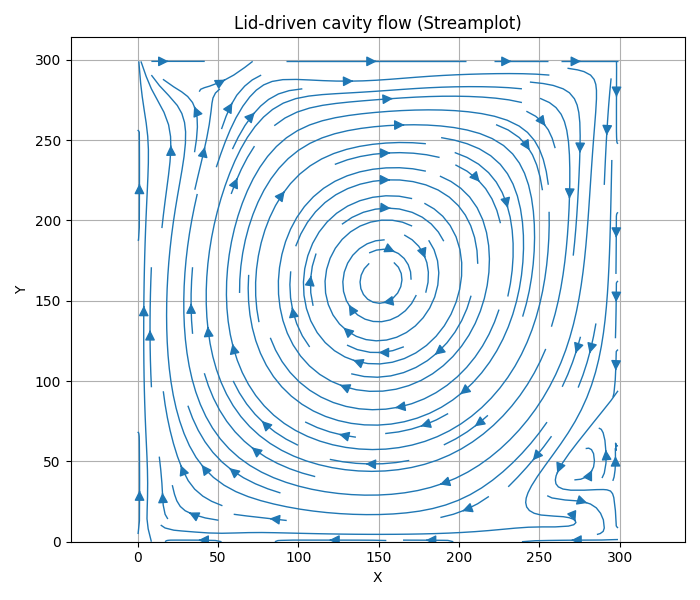
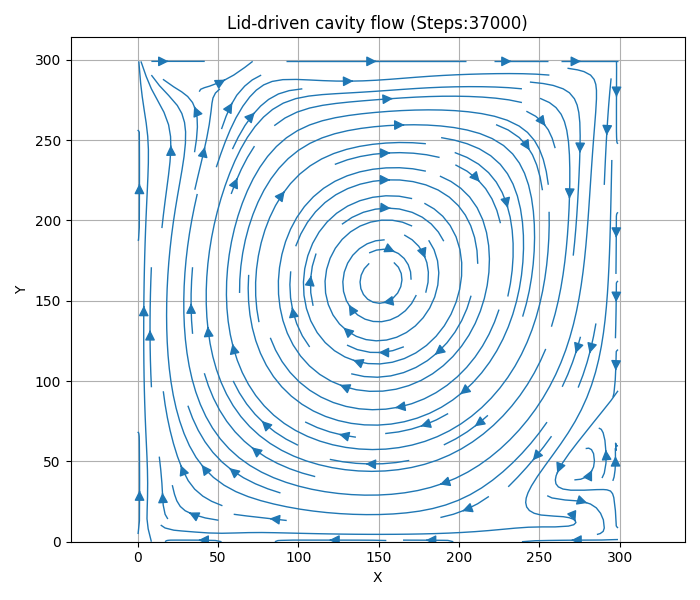
update script to display gif for lid

Changed region(s): [[0.33, 0.03, 0.75, 0.06]]

diff --git a/JAXMPI_LID.py b/JAXMPI_LID.py
@@ -40,8 +40,8 @@ print(f"JAX backend: {jax.default_backend()}")
 
 # ✅ Simulation parameters
 NX, NY = 300, 300
-NSTEPS = 30000 
-omega = 1.67
+NSTEPS = 100000 
+omega = 1.6
 u_max = 0.1
 nu = (1 / omega - 0.5) / 3
 
@@ -142,50 +142,50 @@ with mesh:
     for step in range(NSTEPS):
         f = lbm_step(f)
 
-        # if step % 200 == 0:
-        #     rho = jnp.einsum('ijk->jk', f)
-        #     u = jnp.einsum('ai,ixy->axy', c, f) / rho
-        #     u_local = u.addressable_data(0)
-        #     u_np = np.array(u_local)
-        #     all_shards = comm.gather(u_np, root=0)
+        if step % 1000 == 0:
+            rho = jnp.einsum('ijk->jk', f)
+            u = jnp.einsum('ai,ixy->axy', c, f) / rho
+            u_local = u.addressable_data(0)
+            u_np = np.array(u_local)
+            all_shards = comm.gather(u_np, root=0)
 
-        #     if rank == 0:
-        #         try:
-        #             shards_2d = [all_shards[i * py:(i + 1) * py] for i in range(px)]
-        #             rows = [np.concatenate(shard_row, axis=2) for shard_row in shards_2d]
-        #             u_combined = np.concatenate(rows, axis=1)
-        #             u_combined = u_combined.reshape(2, NX, NY)
-        #         except Exception as e:
-        #             print("Concatenation failed:", e)
-        #             raise
+            if rank == 0:
+                try:
+                    shards_2d = [all_shards[i * py:(i + 1) * py] for i in range(px)]
+                    rows = [np.concatenate(shard_row, axis=2) for shard_row in shards_2d]
+                    u_combined = np.concatenate(rows, axis=1)
+                    u_combined = u_combined.reshape(2, NX, NY)
+                except Exception as e:
+                    print("Concatenation failed:", e)
+                    raise
 
-        #         u_x = u_combined[0]
-        #         u_y = u_combined[1]
+                u_x = u_combined[0]
+                u_y = u_combined[1]
             
-        #         speed = np.sqrt(u_x**2 + u_y**2)
-        #         print(f"Step {step}: top lid max u_x = {u_x[:, -1].max():.4f}")
+                speed = np.sqrt(u_x**2 + u_y**2)
+                print(f"Step {step}: top lid max u_x = {u_x[:, -1].max():.4f}")
 
-        #         amp.append(u_x[NX // 2, NY // 8])
-        #         profiles.append(u_x[NX // 2, :].copy())
+                amp.append(u_x[NX // 2, NY // 8])
+                profiles.append(u_x[NX // 2, :].copy())
 
-        #         # X, Y = np.meshgrid(np.arange(NX), np.arange(NY), indexing='ij')
-        #         # Generate meshgrid with indexing='xy' to get the right shape
-        #         X, Y = np.meshgrid(np.arange(NY), np.arange(NX))  # note NY, NX order!
-        #         xlim = (0, NY)
-        #         ylim = (0, NX)
-        #         plt.figure(figsize=(7, 6))
-        #         plt.streamplot(X, Y, u_x.T, u_y.T, density=1.2, linewidth=1, arrowsize=1.5)
-        #         plt.xlim(xlim)
-        #         plt.ylim(ylim)
-        #         plt.title(f'Lid-driven cavity flow (Steps:{step:05d})')
-        #         plt.xlabel("X")
-        #         plt.ylabel("Y")
-        #         # plt.gca().invert_xaxis()
-        #         plt.axis("equal")
-        #         plt.grid(True)
-        #         plt.tight_layout()
-        #         plt.savefig(f'frames/streamplot_{step:05d}.png')
-        #         plt.close()
+                # X, Y = np.meshgrid(np.arange(NX), np.arange(NY), indexing='ij')
+                # Generate meshgrid with indexing='xy' to get the right shape
+                X, Y = np.meshgrid(np.arange(NY), np.arange(NX))  # note NY, NX order!
+                xlim = (0, NY)
+                ylim = (0, NX)
+                plt.figure(figsize=(7, 6))
+                plt.streamplot(X, Y, u_x.T, u_y.T, density=1.2, linewidth=1, arrowsize=1.5)
+                plt.xlim(xlim)
+                plt.ylim(ylim)
+                plt.title(f'Lid-driven cavity flow (Steps:{step:05d})')
+                plt.xlabel("X")
+                plt.ylabel("Y")
+                # plt.gca().invert_xaxis()
+                plt.axis("equal")
+                plt.grid(True)
+                plt.tight_layout()
+                plt.savefig(f'frames/streamplot_{step:05d}.png')
+                plt.close()
 
                 # plt.figure(figsize=(6,5))
                 # plt.imshow(speed.T, origin='lower', cmap='plasma', extent=[0, NX, 0, NY])
@@ -209,15 +209,15 @@ print(f"BLUPS: {blups:.3f}")
 print(f"Domain: {NX}x{NY}, Steps: {NSTEPS}")
 print(f"Viscosity: {nu:.4e}")
 
-# if rank == 0:
-#     # amp = np.array(amp)
-#     # profiles = np.array(profiles)
+if rank == 0:
+    # amp = np.array(amp)
+    # profiles = np.array(profiles)
 
-#     import imageio
-#     for prefix in ['streamplot']:
-#         with imageio.get_writer(f'{prefix}.gif', mode='I', duration=0.5) as writer:
-#             for step in range(0, NSTEPS,200):
-#                 filename = f'frames/{prefix}_{step:05d}.png'
-#                 if os.path.exists(filename):
-#                     image = imageio.imread(filename)
-#                     writer.append_data(image)
+    import imageio
+    for prefix in ['streamplot']:
+        with imageio.get_writer(f'{prefix}.gif', mode='I', duration=0.5) as writer:
+            for step in range(0, NSTEPS,200):
+                filename = f'frames/{prefix}_{step:05d}.png'
+                if os.path.exists(filename):
+                    image = imageio.imread(filename)
+                    writer.append_data(image)
